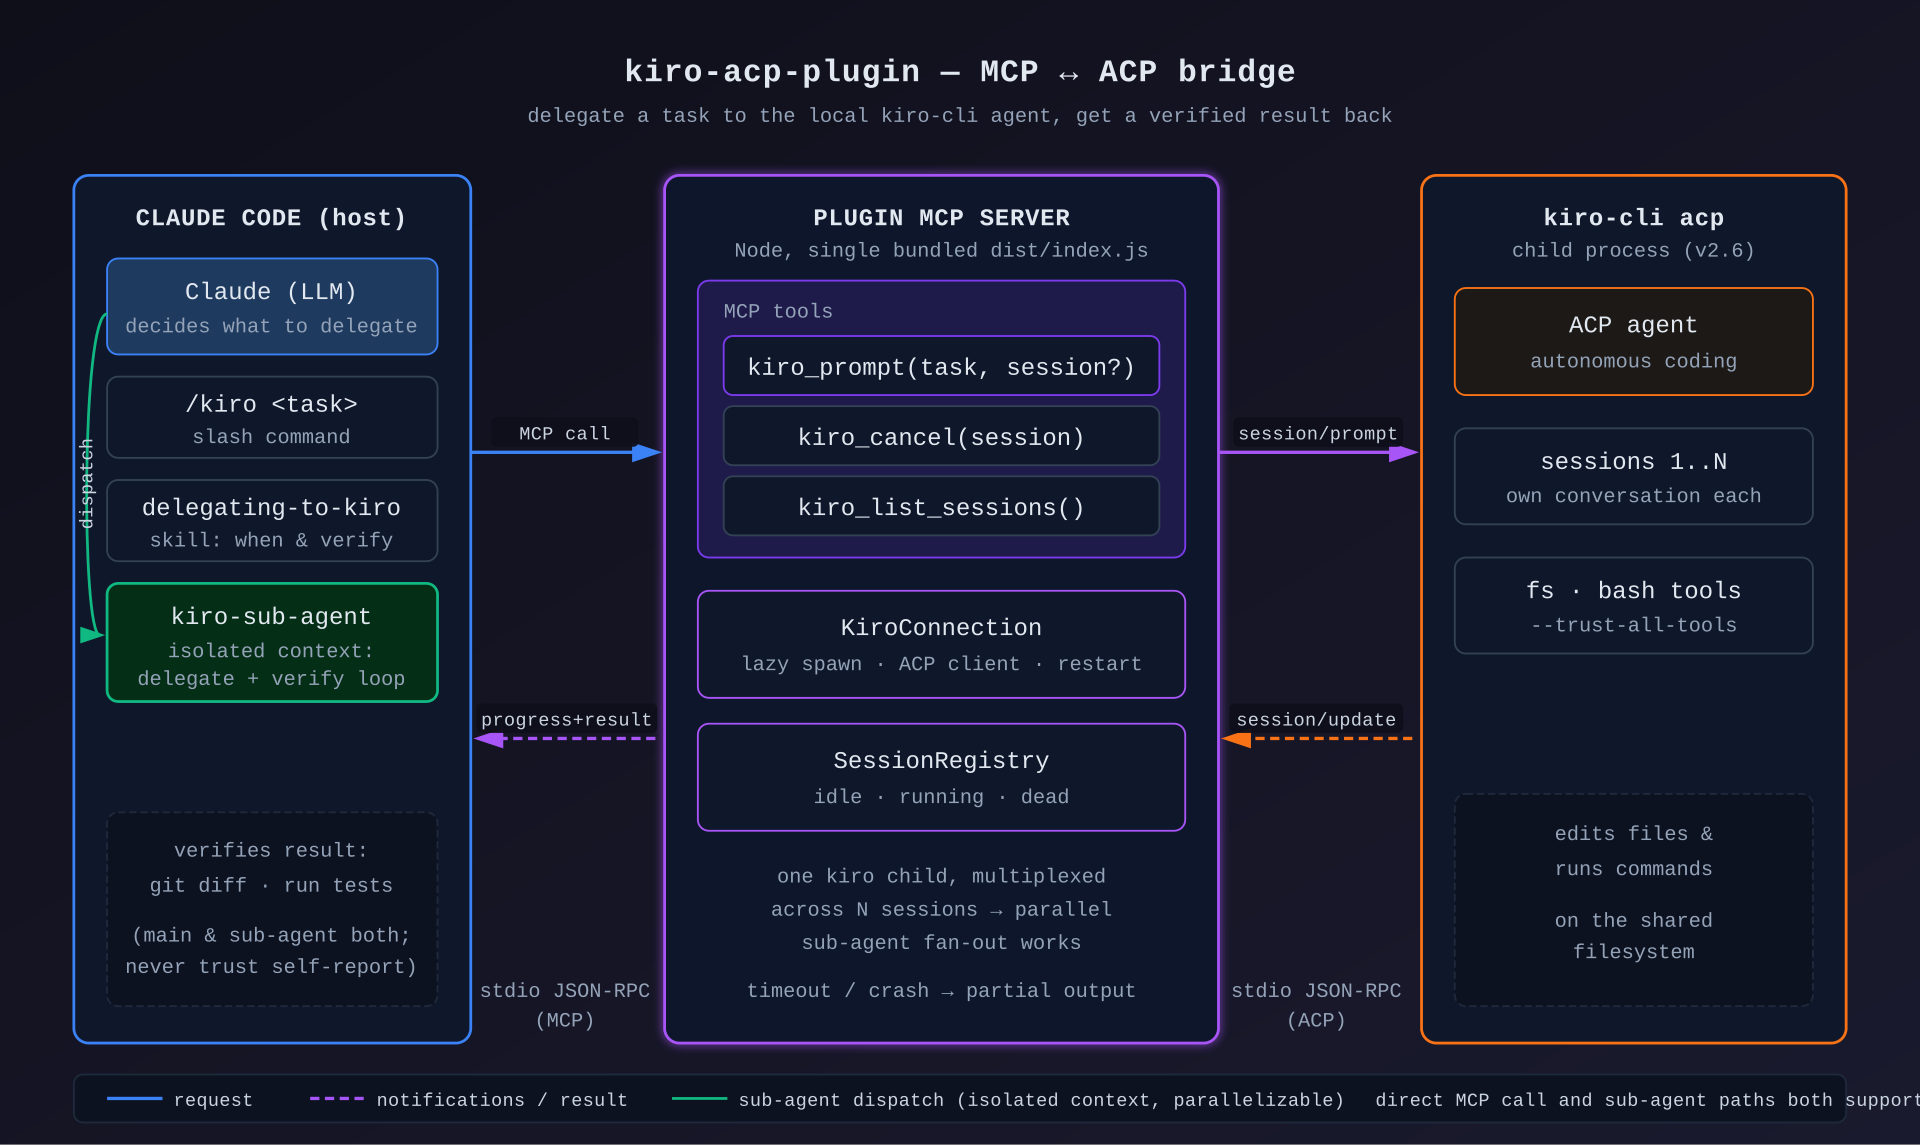
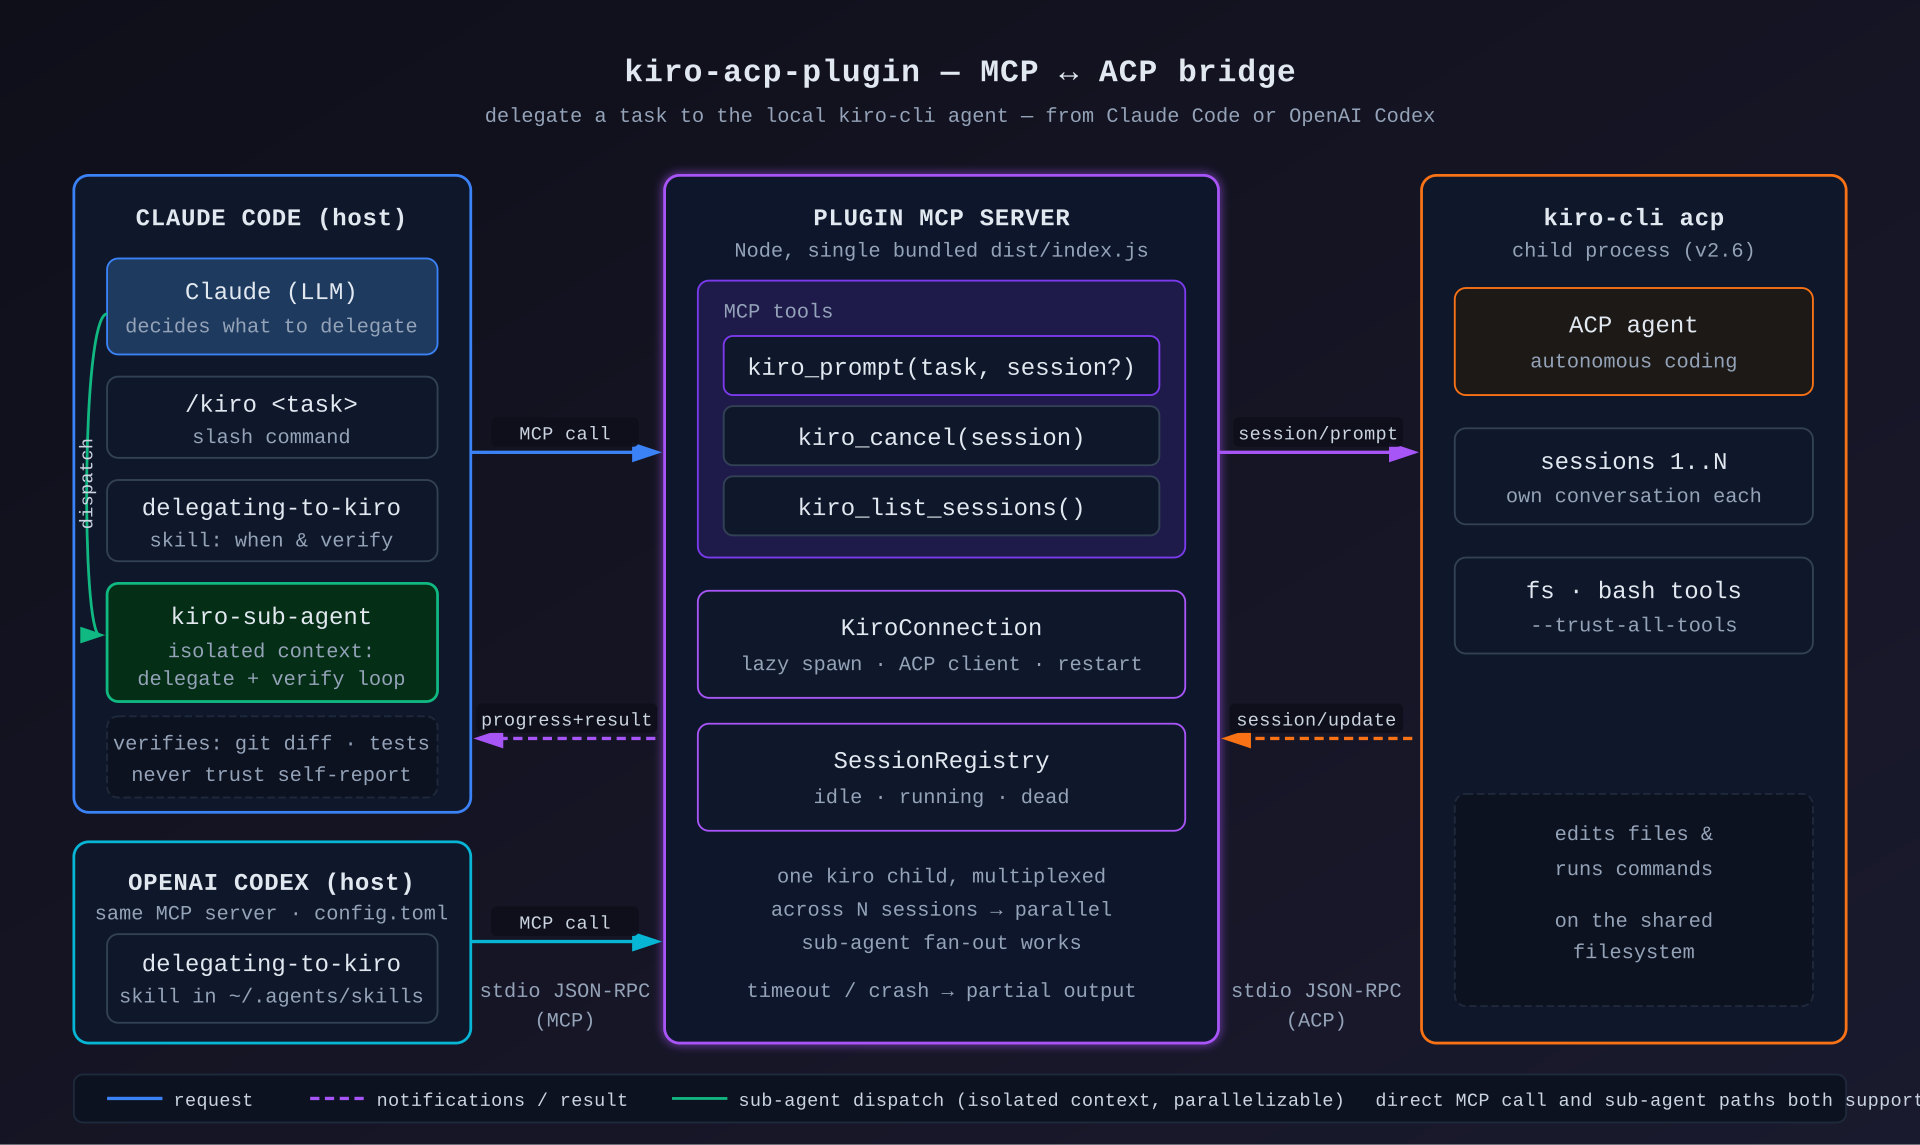
docs: add OpenAI Codex host to architecture diagram; readme link-list tweaks

diff --git a/README.zh-CN.md b/README.zh-CN.md
@@ -142,5 +142,5 @@ Claude 会复用返回的 `session_id`,kiro 自己记得之前的改动。
     npm test                       # 单元/集成测试,基于脚本化的 fake agent
     KIRO_MCP_E2E=1 npm test        # 额外运行真实 kiro-cli 冒烟测试
 
-架构设计文档:docs/superpowers/specs/2026-06-12-kiro-acp-mcp-plugin-design.md
-实现计划:docs/superpowers/plans/2026-06-12-kiro-acp-mcp-plugin.md
+- 架构设计文档:docs/superpowers/specs/2026-06-12-kiro-acp-mcp-plugin-design.md
+- 实现计划:docs/superpowers/plans/2026-06-12-kiro-acp-mcp-plugin.md

diff --git a/README.md b/README.md
@@ -147,5 +147,5 @@ Manage in-flight work:
     npm test                       # unit/integration vs scripted fake agent
     KIRO_MCP_E2E=1 npm test        # plus real kiro-cli smoke test
 
-Architecture spec: docs/superpowers/specs/2026-06-12-kiro-acp-mcp-plugin-design.md
-Implementation plan: docs/superpowers/plans/2026-06-12-kiro-acp-mcp-plugin.md
+- Architecture spec: docs/superpowers/specs/2026-06-12-kiro-acp-mcp-plugin-design.md
+- Implementation plan: docs/superpowers/plans/2026-06-12-kiro-acp-mcp-plugin.md
